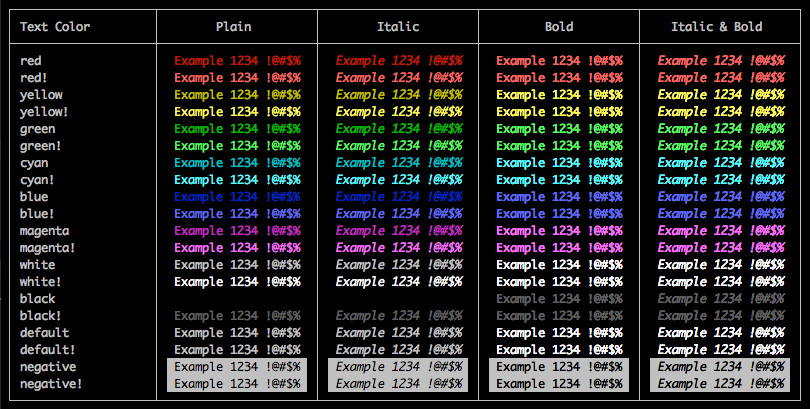
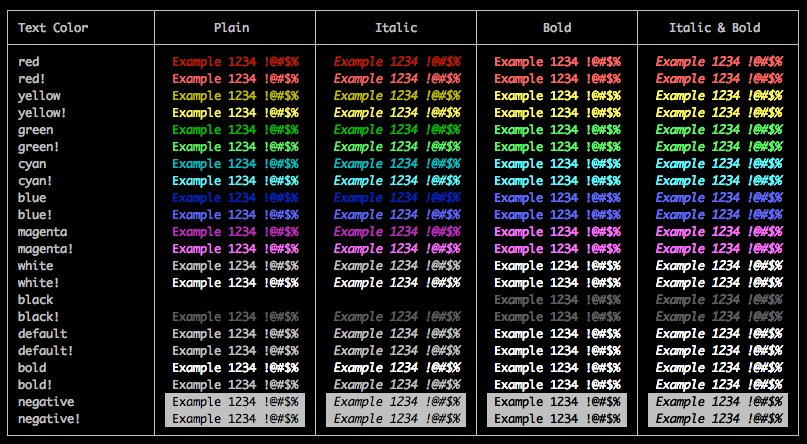
Add bold as a text color.

diff --git a/utils/src/main/java/io/helidon/build/util/Style.java b/utils/src/main/java/io/helidon/build/util/Style.java
@@ -86,7 +86,11 @@ public class Style {
      *     <li>{@code white}</li>
      *     <li>{@code black}</li>
      *     <li>{@code default}</li>
+     *     <li>{@code bold}</li>
+     *     <li>{@code negative}</li>
      * </ul>
+     * <p></p>
+     * See Portability below for more on {@code default}, {@code bold} and {@code negative}.
      * <p></p>
      * <h3>Background Color Names</h3>
      * <ul>
@@ -139,6 +143,11 @@ public class Style {
      *     <li>{@code ITALIC}</li>
      * </ul>
      * <p></p>
+     * When {@code bold} is used without any other color, it is an alias for {@code default,bold}.
+     * <p></p>
+     * The {@code negative} text color and the {@code bg_negative} background color are identical: they invert *both* the default
+     * text color and the background color.
+     * <p></p>
      * <h3>Portability</h3>
      * <p></p>
      * Most terminals provide mappings between the standard color names used here and what they actually render. So, for example,
@@ -150,7 +159,7 @@ public class Style {
      * {@code black} or {@code bg_black} on a dark theme. While explicit use of {@code white} may work well in <em>your</em>
      * terminal, it won't work for everyone; if this matters in your use case...
      * <p></p>
-     * The portability problem can be addressed by using these special styles in place of any white or black style:
+     * The portability problem can be addressed by using these special colors in place of any white or black style:
      *  <ul>
      *      <li>{@code default} selects the default text color in the current theme</li>
      *      <li>{@code bold} selects the bold variant of the default text color</li>
@@ -196,7 +205,7 @@ public class Style {
      * @return The names.
      */
     public static List<String> colorNames() {
-        return List.of("red", "yellow", "green", "cyan", "blue", "magenta", "white", "black", "default", "negative");
+        return List.of("red", "yellow", "green", "cyan", "blue", "magenta", "white", "black", "default", "bold", "negative");
     }
 
     /**
@@ -569,7 +578,7 @@ public class Style {
 
         // Hues and aliases
 
-        for (String lowerName : colorNames()) {
+        colorNames().stream().filter(name -> !name.equals("bold")).forEach(lowerName -> {
 
             // Text colors and aliases
 
@@ -617,7 +626,7 @@ public class Style {
 
             styles.put("bg_" + lowerName, negative ? NEGATIVE : Style.of(color, true, false));
             styles.put("bg_" + lowerName + "!", negative ? NEGATIVE : Style.of(color, true, true));
-        }
+        });
 
         // Emphasis and aliases
 

diff --git a/utils/src/test/java/io/helidon/build/util/StyleTest.java b/utils/src/test/java/io/helidon/build/util/StyleTest.java
@@ -276,6 +276,17 @@ class StyleTest {
     }
 
     @Test
+    void testStrip() {
+        String sample = "sample";
+        Style style = Style.of("RED!");
+        String styled = style.apply(sample);
+        String stripped = Style.strip(styled);
+        assertThat(Style.isStyled(styled), is(true));
+        assertThat(Style.isStyled(stripped), is(false));
+        assertThat(stripped, is(sample));
+    }
+
+    @Test
     void logTables() {
         Style.logSummaryTables();
     }

diff --git a/helidon-maven-plugin/README.md b/helidon-maven-plugin/README.md
@@ -292,7 +292,10 @@ where `style` is a case-sensitive name for a color, background color, emphasis o
  * `white`
  * `black`
  * `default`
+ * `bold`
  * `negative`
+
+See [portability](#portability) for more on `default`, `bold` and `negative`.
 
 #### Background Colors
 
@@ -341,6 +344,8 @@ The `italic,bold` combination has the following aliases:
  * `ITALIC` 
  * Bright variants of the above with a  `!` suffix (e.g. `*bold*!`, `ITALIC!`)
  
+When `bold` is used without any other color, it is an alias for `default,bold`. 
+ 
 The `negative` text color and the `bg_negative` background color are identical: they invert *both* the default text color and 
 the background color.
 
@@ -352,16 +357,16 @@ close variant of the pure color.
 
 Where things get interesting is when a color matches (or closely matches) the terminal background color: any use of that color 
 will fade or disappear entirely. The common cases are with `white` or `bg_white` on a light theme and `black` or `bg_black` on 
-a dark theme: see [color examples](#color-examples). While explicit use of `white` may work well in _your_ terminal, it won't 
-work for everyone; if this matters in your use case...
+a dark theme (see [color examples](#color-examples)). While explicit use of `white` may work well in _your_ terminal setup, it 
+won't work for everyone.
 
-Portability can be addressed by using these special styles in place of any white or black style: 
+Portability can be addressed by using these special colors in place of any white or black style: 
 
  * `default`: selects the default text color in the current theme
  * `bold`: selects the bold variant of the default text color
  * `negative`: inverts the default text **_and_** background colors
- * `bg_negative`: an alias for `negative`
  * `bg_default`: selects the default background color in the current theme
+ * `bg_negative`: an alias for `negative`
  
 Finally, `strikethrough`, (the really annoying) `blink` and `conceal` may not be enabled or supported in every terminal and may 
 do nothing. For `conceal`, presumably you can just leave out whatever you don't want shown; for the other two best to assume 
